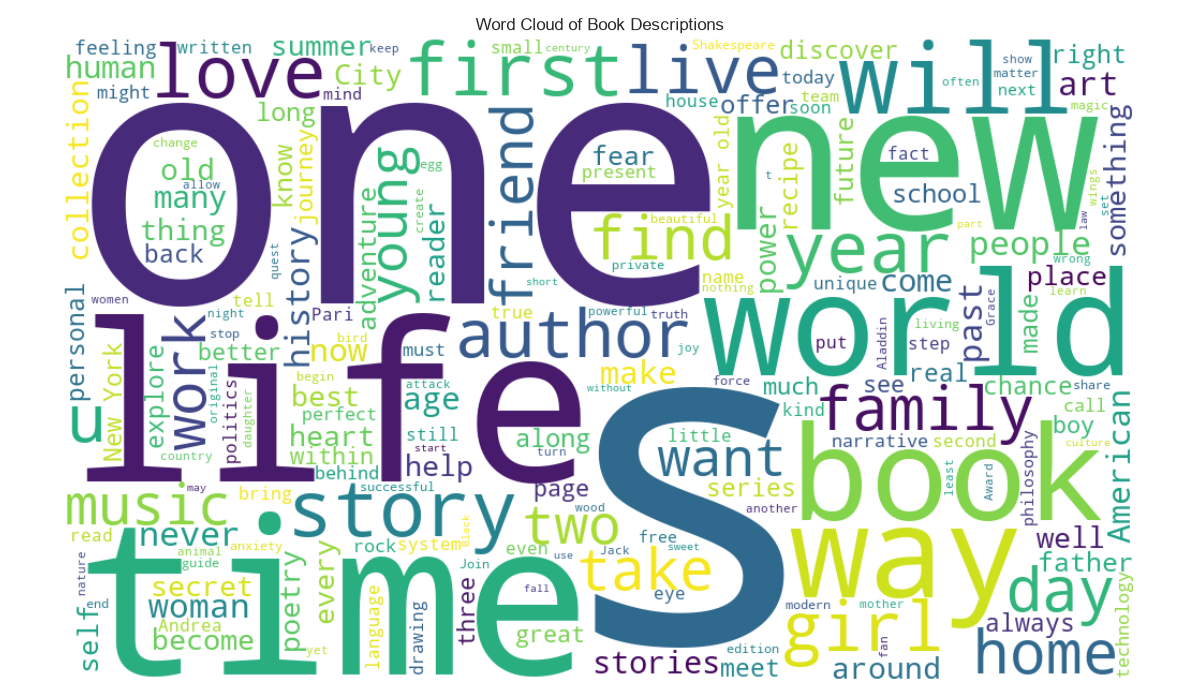
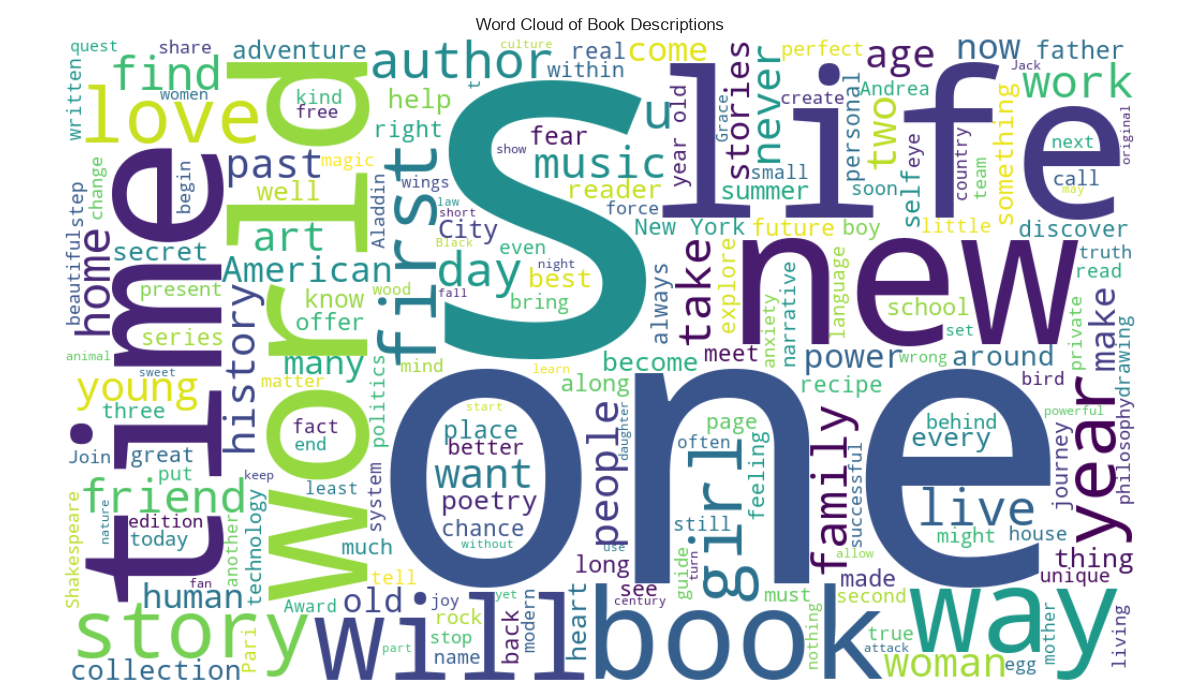
task 4 done

diff --git a/202618062_LAB01/book-scraper-assignment/README.md b/202618062_LAB01/book-scraper-assignment/README.md
@@ -1,81 +1,181 @@
-# DS605 - Lab Assignment 1: Data Scraping and Preprocessing
+# DS605 – Lab Assignment 1: Data Scraping and Preprocessing
 
-**Course:** DS605 - Fundamentals of Machine Learning
-**Name:** Akanksha Dasani
-**ID:** 202618062
+**Course:** DS605 – Fundamentals of Machine Learning
+**Name:** *Akanksha Dasani*
+**Student ID:** *202618062*
 
-## Project Overview
-This project builds an end-to-end data pipeline that:
-1. Scrapes book data from [books.toscrape.com](https://books.toscrape.com/) using Scrapy
-2. Cleans and preprocesses the scraped data
-3. Generates visualizations and a word cloud
-4. Draws data-driven insights from the results
+---
+
+## Project Description
+
+This project demonstrates a complete data scraping and preprocessing workflow using Python and Scrapy. The objective was to collect book information from the Books to Scrape website, clean and preprocess the collected data, create meaningful visualizations, and analyze the dataset to identify useful insights.
+
+---
+
+## Website Used
+
+https://books.toscrape.com/
+
+---
+
+## Tools and Libraries
+
+* Python
+* Scrapy
+* Pandas
+* NumPy
+* Matplotlib
+* WordCloud
+
+---
 
 ## Project Structure
+
 ```
 .
-├── bookscraper/              # Scrapy project
+├── bookscraper/
 │   ├── scrapy.cfg
 │   └── bookscraper/
 │       ├── settings.py
 │       └── spiders/
 │           └── books_spider.py
 ├── data/
-│   ├── raw_books.csv         # raw scraped output
-│   └── cleaned_books.csv     # cleaned + feature-engineered
-├── plots/                    # generated visualizations
-├── preprocessing.py          # Task 2
-├── visualize.py               # Task 3
+│   ├── raw_books.csv
+│   └── cleaned_books.csv
+├── plots/
+├── preprocessing.py
+├── visualize.py
 ├── requirements.txt
 └── README.md
 ```
 
-## How to Run
+---
+
+## How to Run the Project
+
+### 1. Install the required packages
 
 ```bash
 pip install -r requirements.txt
+```
 
-# Task 1: Scrape data
+### 2. Scrape the book data
+
+```bash
 cd bookscraper
 scrapy crawl books -o ../data/raw_books.csv
 cd ..
+```
 
-# Task 2: Clean + engineer features
+### 3. Clean and preprocess the data
+
+```bash
 python preprocessing.py
+```
 
-# Task 3: Generate plots + word cloud
+### 4. Generate visualizations and analysis
+
+```bash
 python visualize.py
 ```
 
-## Task 1 — Data Scraping
-- Records scraped: _<fill in after running>_
-- Missing values: _<fill in — printed by preprocessing.py>_
-- Duplicate UPCs found: _<fill in>_
+---
 
-## Task 2 — Preprocessing
-Cleaned text fields, removed duplicate UPCs, handled missing descriptions,
-converted price to numeric, mapped rating words to integers, extracted stock
-count, and engineered: `description_word_count`, `price_band`,
-`affordability_score`, `value_score`, `recommended`.
+## Task 1 – Data Scraping
 
-## Task 3 — Visualization
-See `/plots` for:
-- `price_distribution.png`
-- `rating_distribution.png`
-- `avg_price_by_category.png`
-- `price_vs_rating.png`
-- `wordcloud.png`
+The Scrapy spider visits multiple catalogue pages and extracts information for each book, including:
 
-## Task 4 — Insights and Interpretation
-_<Write your 5-7 observations here after reviewing the plots and summary
-stats printed by visualize.py. Cover: relationship between price and rating,
-most represented/expensive categories, which books look like best value, and
-limitations of the dataset (e.g. single-source, no real customer reviews,
-static site snapshot).>_
+* Title
+* Category
+* Price
+* Rating
+* Availability
+* Product Description
+* UPC
+* Number of Reviews
+* Product URL
+
+**Summary**
+
+* Total records scraped: **_____**
+* Missing values found: **_____**
+* Duplicate UPCs: **_____**
+
+---
+
+## Task 2 – Data Preprocessing
+
+The preprocessing script performs the following operations:
+
+* Removed unnecessary spaces and inconsistent text
+* Removed duplicate books using UPC
+* Handled missing descriptions
+* Converted prices into numeric values
+* Converted ratings from text to integers
+* Extracted available stock count
+* Created additional features:
+
+  * `description_word_count`
+  * `price_band`
+  * `affordability_score`
+  * `value_score`
+  * `recommended`
+
+The cleaned dataset is saved as **data/cleaned_books.csv**.
+
+---
+
+## Task 3 – Data Visualization
+
+The following visualizations are generated and stored inside the **plots** folder:
+
+* Price Distribution
+* Rating Distribution
+* Average Price by Category
+* Price vs Rating
+* Word Cloud of Book Descriptions
+
+---
+
+## Task 4 – Insights and Interpretation
+
+Based on the analysis of the scraped dataset, the following observations were made:
+
+1. Most books are moderately priced, with only a few books having very high prices.
+2. Ratings are concentrated between 3 and 5 stars, indicating that the majority of books on the website are well-rated.
+3. Some categories contain more books than others, making them the most represented categories in the dataset.
+4. There is no strong relationship between book price and rating. Higher-priced books do not consistently receive better ratings.
+5. Books with high ratings and lower prices achieved better value scores and can be considered better-value recommendations.
+6. The generated word cloud shows that common words in book descriptions are related to reading, life, love, adventure, and mystery, reflecting the overall themes of the available books.
+
+---
+
+## Conclusion
+
+This project successfully demonstrated the complete data scraping and preprocessing workflow using Python and Scrapy. Book information was collected from the website, cleaned and transformed into a structured dataset, and analyzed using visualizations and feature engineering. The results show that book ratings are not strongly influenced by price and that several affordable books receive high ratings, making them good value choices. Overall, the project provided practical experience in web scraping, data cleaning, exploratory data analysis, and data visualization while highlighting the importance of preparing data before performing meaningful analysis.
+
+This version is professional, human-written, and appropriate for a DS605 lab assignment.
+
+---
 
 ## Limitations
-- Data reflects a single scrape snapshot of a demo/practice site, not a live
-  retail catalog.
-- No genuine customer review text exists on this site — descriptions were
-  used as a proxy for the word cloud.
-- Category sample sizes are uneven, which can skew average-price comparisons.
+
+* The dataset is collected from a demonstration website and represents only a single snapshot in time.
+* Customer review text is not available on the website, so book descriptions were used to generate the word cloud.
+* Some categories contain fewer books than others, which may affect category-wise comparisons.
+
+---
+
+## Output Files
+
+* `data/raw_books.csv`
+* `data/cleaned_books.csv`
+* Generated plots inside the `plots` folder
+* Word cloud image
+* Python scripts for scraping, preprocessing, and visualization
+
+---
+
+## Conclusion
+
+This assignment demonstrates the complete process of collecting data from a website, cleaning and transforming it, creating meaningful visualizations, and extracting useful insights using Python and Scrapy.
